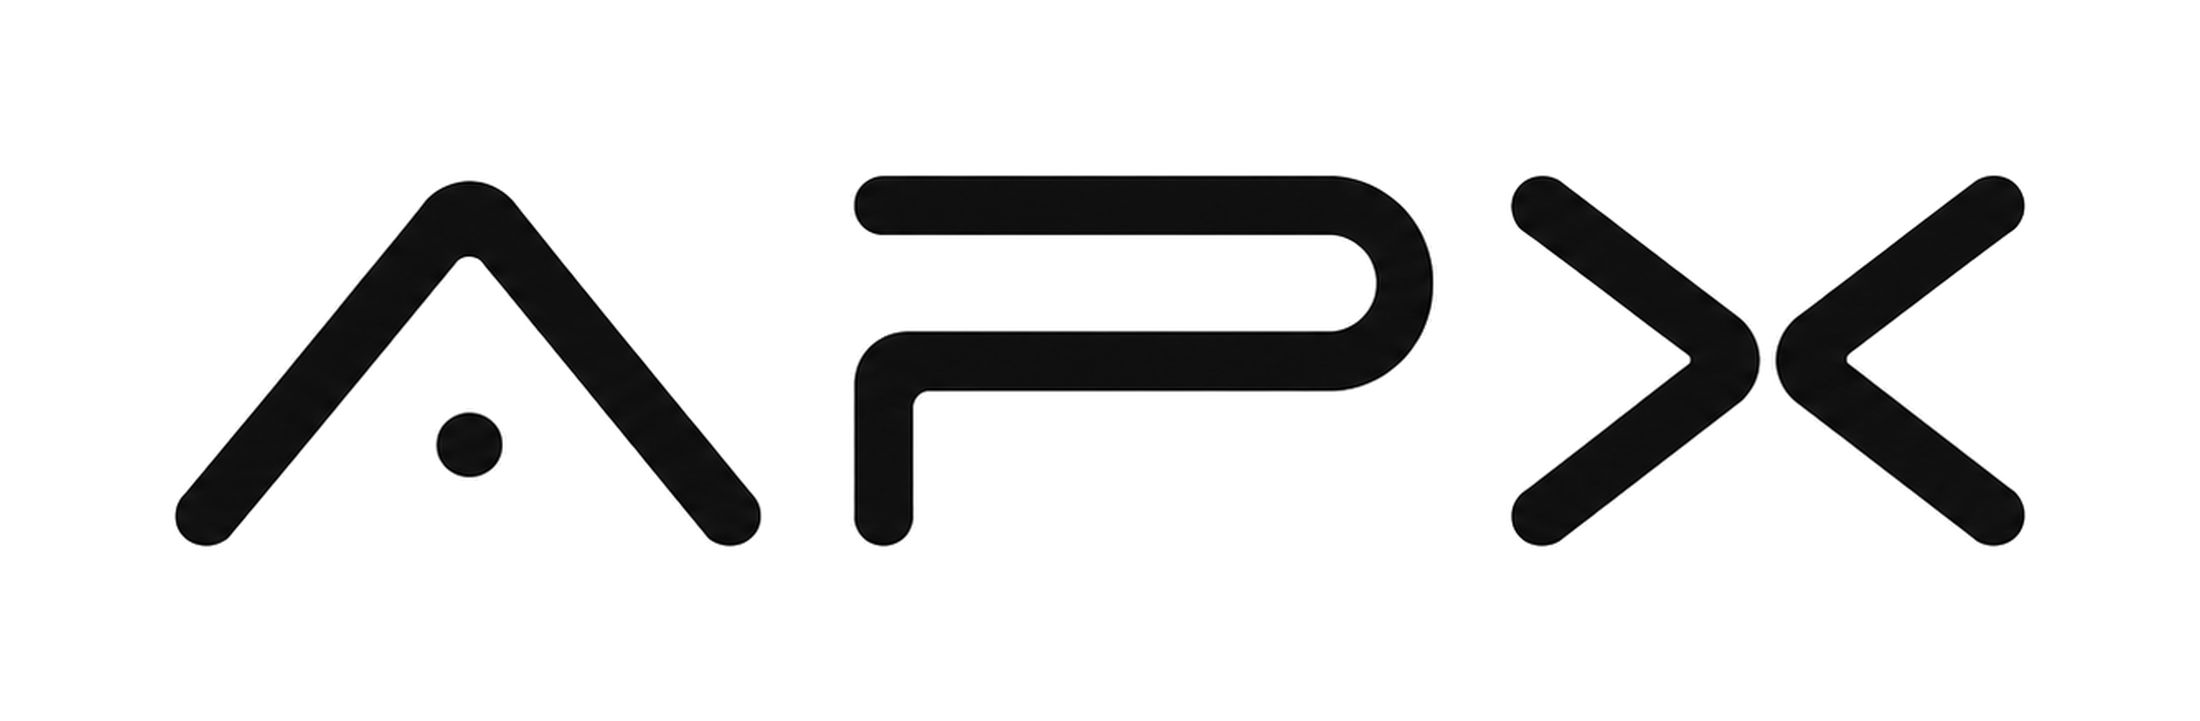
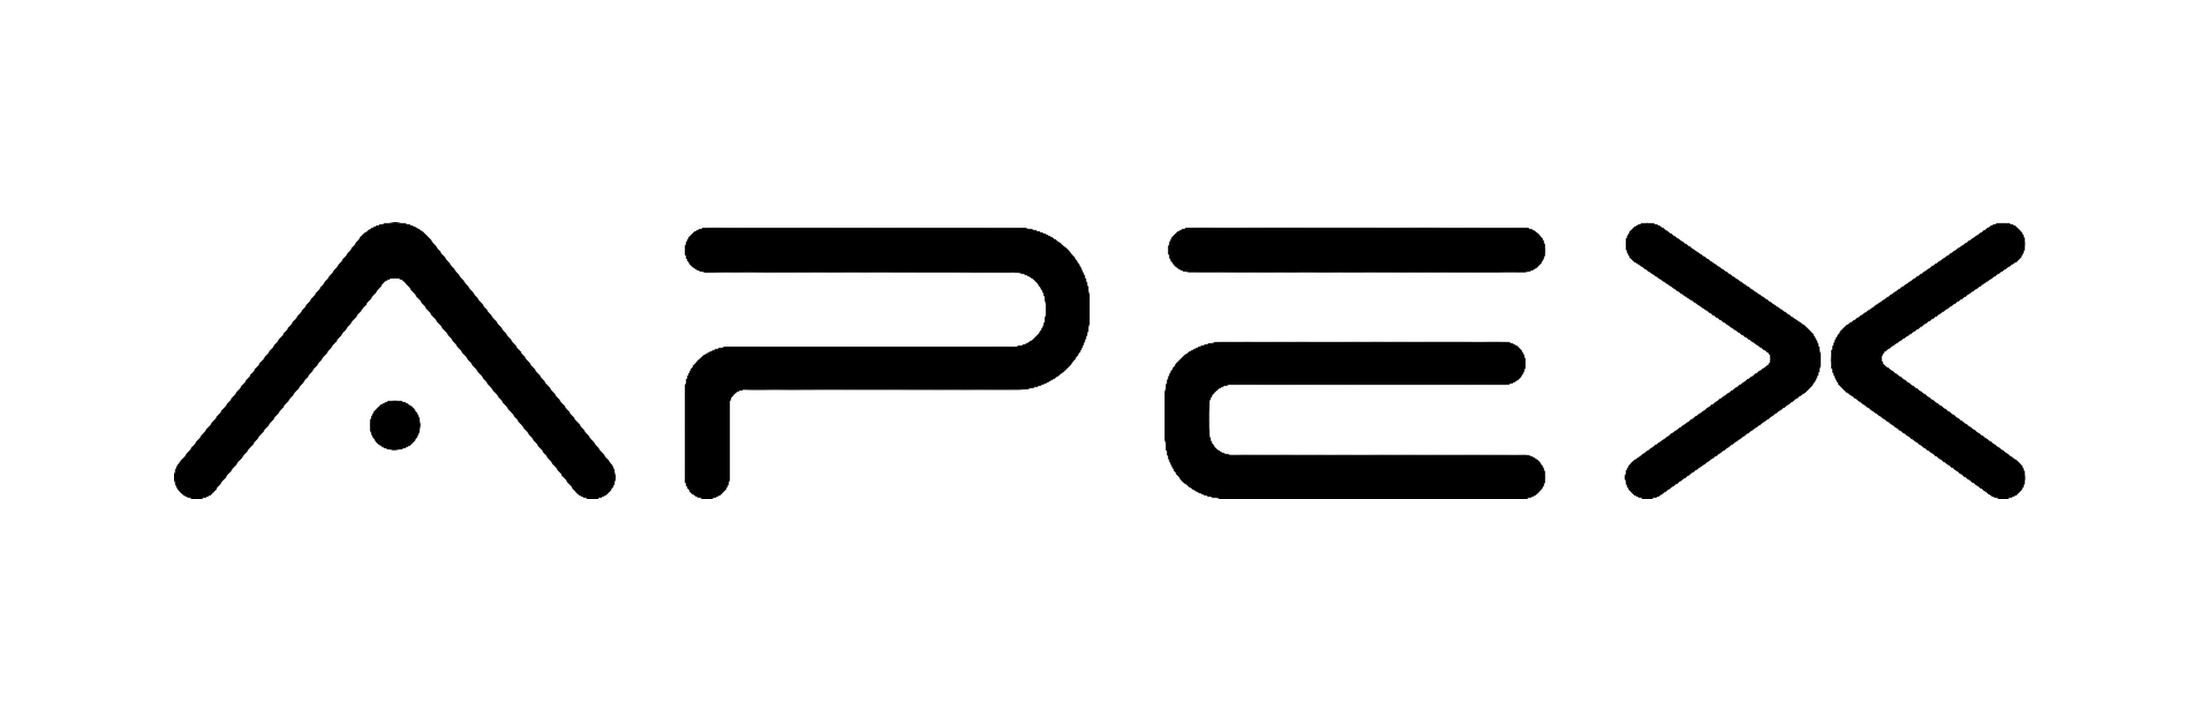
Rebrand to APEX wordmark; widen+lengthen track; legal name on apply
- Swap APX → APEX wordmark everywhere it appears: site logo mask
  (assets/apx-logo.png, widened canvas + CSS aspect-ratio), OG card,
  all 15 media/wordmark variants, and the wordmark-bearing social/OG
  cards. A-mark, icons, favicons and avatars are unchanged (the new
  logo's "A" is the same peak-and-dot mark). aria-labels + README updated.
- Aerial track: lane band 50% wider (spacing 30→45) and straights 50%
  longer (LL 560→840); field viewBox/box enlarged so nothing clips.
- Apply consent statement now uses the legal DBA "APEX Training Group".

Changed region(s): [[0.0618, 0.2441, 0.9273, 0.7628]]

diff --git a/index.html b/index.html
@@ -17,8 +17,8 @@
   <meta property="og:title" content="APEX Training Group">
   <meta property="og:description" content="Performance · Precision · Ascent. A team, a culture, and a standard. Membership by consideration.">
   <meta property="og:url" content="https://runapx.com/">
-  <meta property="og:image" content="https://runapx.com/assets/og-image.png?v=3">
-  <meta property="og:image:secure_url" content="https://runapx.com/assets/og-image.png?v=3">
+  <meta property="og:image" content="https://runapx.com/assets/og-image.png?v=4">
+  <meta property="og:image:secure_url" content="https://runapx.com/assets/og-image.png?v=4">
   <meta property="og:image:type" content="image/png">
   <meta property="og:image:width" content="1200">
   <meta property="og:image:height" content="630">
@@ -28,13 +28,13 @@
   <meta name="twitter:card" content="summary_large_image">
   <meta name="twitter:title" content="APEX Training Group">
   <meta name="twitter:description" content="Performance · Precision · Ascent. A team, a culture, and a standard. Membership by consideration.">
-  <meta name="twitter:image" content="https://runapx.com/assets/og-image.png?v=3">
+  <meta name="twitter:image" content="https://runapx.com/assets/og-image.png?v=4">
   <meta name="twitter:image:alt" content="APEX Training Group — Performance · Precision · Ascent">
 
   <link rel="preconnect" href="https://fonts.googleapis.com">
   <link rel="preconnect" href="https://fonts.gstatic.com" crossorigin>
   <link href="https://fonts.googleapis.com/css2?family=Inter:wght@200;300;400&display=swap" rel="stylesheet">
-  <link rel="stylesheet" href="/assets/site.css?v=6">
+  <link rel="stylesheet" href="/assets/site.css?v=7">
   <!-- Flip no-js → js before paint so 3D panes only transform when JS can drive them. -->
   <script>document.documentElement.classList.remove('no-js');</script>
   <style>
@@ -75,8 +75,8 @@
     }
     .track-field {
       position: absolute;
-      left: -450px; top: -720px;
-      width: 900px; height: 1440px;
+      left: -490px; top: -900px;
+      width: 980px; height: 1800px;
       will-change: transform;
     }
 
@@ -398,7 +398,7 @@
 
   <div class="track-view" aria-hidden="true">
     <div class="track-rotor" id="trackRotor">
-      <svg class="track-field" id="trackField" viewBox="-450 -720 900 1440" xmlns="http://www.w3.org/2000/svg"></svg>
+      <svg class="track-field" id="trackField" viewBox="-490 -900 980 1800" xmlns="http://www.w3.org/2000/svg"></svg>
     </div>
   </div>
   <div class="orbs" aria-hidden="true">
@@ -412,7 +412,7 @@
   <!-- ── Hero ── -->
   <header class="hero">
     <div class="logo-wrap">
-      <div class="logo" role="img" aria-label="APX logo"></div>
+      <div class="logo" role="img" aria-label="APEX logo"></div>
     </div>
     <div class="divider" aria-hidden="true"></div>
     <div class="title-block">
@@ -512,11 +512,11 @@
   </main>
 
   <footer class="foot">
-    <div class="logo" role="img" aria-label="APX"></div>
+    <div class="logo" role="img" aria-label="APEX"></div>
     <p class="foot-line">APEX Training Group</p>
   </footer>
 
-  <script src="/assets/app.js?v=8" defer></script>
+  <script src="/assets/app.js?v=10" defer></script>
   <script src="/assets/apply.js?v=3" defer></script>
   <script src="/assets/transition.js?v=3" defer></script>
 </body>

diff --git a/apply/index.html b/apply/index.html
@@ -17,12 +17,12 @@
   <meta property="og:title" content="APEX — Request Consideration">
   <meta property="og:description" content="Admission is considered, not sold.">
   <meta property="og:url" content="https://runapx.com/apply">
-  <meta property="og:image" content="https://runapx.com/assets/og-image.png?v=3">
+  <meta property="og:image" content="https://runapx.com/assets/og-image.png?v=4">
 
   <link rel="preconnect" href="https://fonts.googleapis.com">
   <link rel="preconnect" href="https://fonts.gstatic.com" crossorigin>
   <link href="https://fonts.googleapis.com/css2?family=Inter:wght@200;300;400&display=swap" rel="stylesheet">
-  <link rel="stylesheet" href="/assets/site.css?v=6">
+  <link rel="stylesheet" href="/assets/site.css?v=7">
   <script>
     document.documentElement.classList.remove('no-js');
     /* glass reveal on arrival (skipped for reduced motion) */
@@ -317,7 +317,7 @@
 
   <div class="wrap" id="formWrap">
     <div class="apply-head">
-      <div class="logo" role="img" aria-label="APX"></div>
+      <div class="logo" role="img" aria-label="APEX"></div>
       <p class="eyebrow">Request Consideration</p>
       <h1>Tell us who you are.</h1>
       <p>
@@ -531,8 +531,8 @@
           <input type="checkbox" id="consent" name="consent" required>
           <label for="consent">
             I confirm this information is accurate, and — as the athlete or their
-            parent/guardian — I consent to APEX reviewing this application and
-            contacting me about it. <span class="req">*</span>
+            parent/guardian — I consent to APEX Training Group reviewing this
+            application and contacting me about it. <span class="req">*</span>
           </label>
         </div>
       </fieldset>
@@ -547,7 +547,7 @@
 
   <!-- Success state -->
   <div class="done" id="done">
-    <div class="logo" role="img" aria-label="APX"></div>
+    <div class="logo" role="img" aria-label="APEX"></div>
     <h2>Received.</h2>
     <p>
       Your application is with us. Consideration is by review — we reach out to

diff --git a/assets/app.js b/assets/app.js
@@ -39,7 +39,7 @@
   var trackField = document.getElementById('trackField');
   var trackRotor = document.getElementById('trackRotor');
   var RR = 300;                       /* running-line radius   */
-  var LL = 560;                       /* straight length       */
+  var LL = 840;                       /* straight length (50% longer) */
   var CURVE = Math.PI * RR;           /* one turn's arc length  */
   var LAP = 2 * LL + 2 * CURVE;       /* full perimeter         */
   var SVGNS = 'http://www.w3.org/2000/svg';
@@ -77,13 +77,15 @@
     defs.appendChild(grad);
     trackField.appendChild(defs);
 
-    var lanes = [195, 225, 255, 285, 315, 345, 375, 405];
+    /* Lane band centred on the running line (RR=300); spacing widened
+       from 30 → 45 so the track reads ~50% wider across the page. */
+    var lanes = [142.5, 187.5, 232.5, 277.5, 322.5, 367.5, 412.5, 457.5];
     for (var li = 0; li < lanes.length; li++) {
       trackField.appendChild(stadium(lanes[li], {
         fill: 'none', stroke: 'url(#laneShine)', 'stroke-width': 2
       }));
     }
-    trackField.style.transform = 'translate(-300px, -280px)';        /* static pose */
+    trackField.style.transform = 'translate(-300px, -420px)';        /* static pose */
   }
 
   /* Position + bank angle at distance s along the running line. */

diff --git a/assets/site.css b/assets/site.css
@@ -118,10 +118,10 @@ body::after {
 .logo {
   position: relative;
   display: block;
-  width: min(420px, 80vw);
-  aspect-ratio: 1212 / 316;
-  -webkit-mask: url("/assets/apx-logo.png") center / contain no-repeat;
-          mask: url("/assets/apx-logo.png") center / contain no-repeat;
+  width: min(460px, 82vw);
+  aspect-ratio: 1602 / 316;
+  -webkit-mask: url("/assets/apx-logo.png?v=3") center / contain no-repeat;
+          mask: url("/assets/apx-logo.png?v=3") center / contain no-repeat;
   background: #0a0e13;   /* black branding */
   overflow: hidden;
 }

diff --git a/media/README.md b/media/README.md
@@ -1,6 +1,6 @@
-# APX — Brand Assets
+# APEX — Brand Assets
 
-Logo kit for **APX Training Group**. Two marks — the **wordmark** (APX) and the
+Logo kit for **APEX Training Group**. Two marks — the **wordmark** (APEX) and the
 **A-mark** (icon) — rendered in every core color on transparent, black, white,
 and blue backgrounds, plus ready-made app icons and social sizes.
 
@@ -22,7 +22,7 @@ value range inverted. Pick by background, not by taste.
 
 ## Folders
 
-- **`wordmark/`** — the APX wordmark.
+- **`wordmark/`** — the APEX wordmark.
   - Transparent PNGs: `white`, `black`, `blue`, `metallic`, `graphite`,
     `blue-steel`.
   - Lockups on solid backgrounds: `…-on-black`, `…-on-white`, `…-on-blue`,
